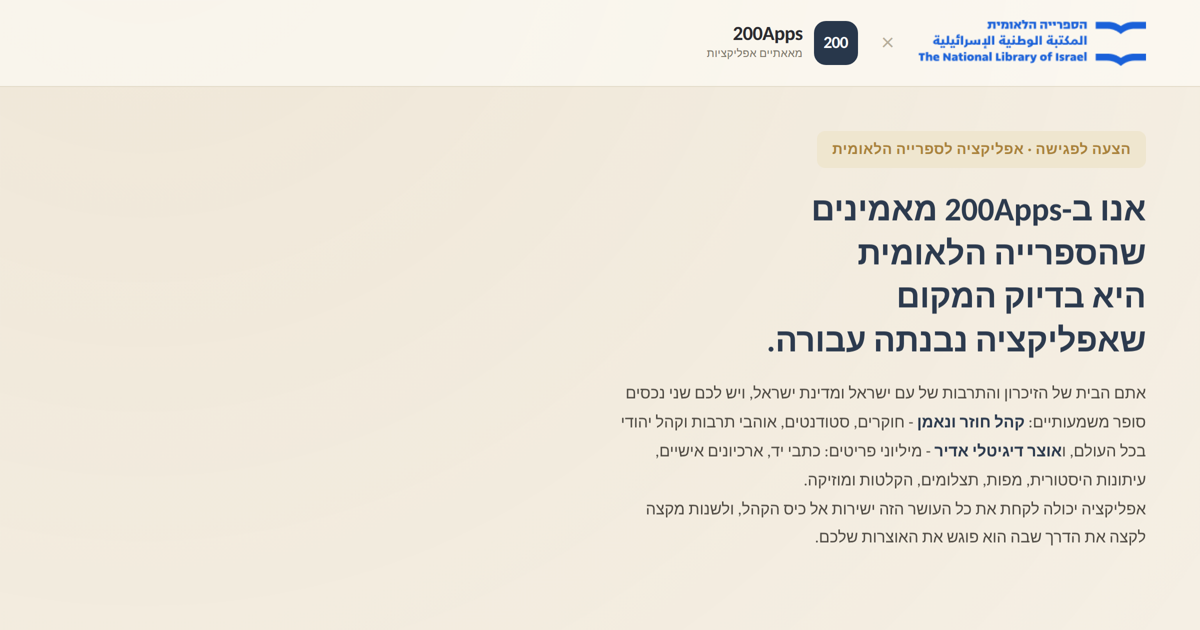
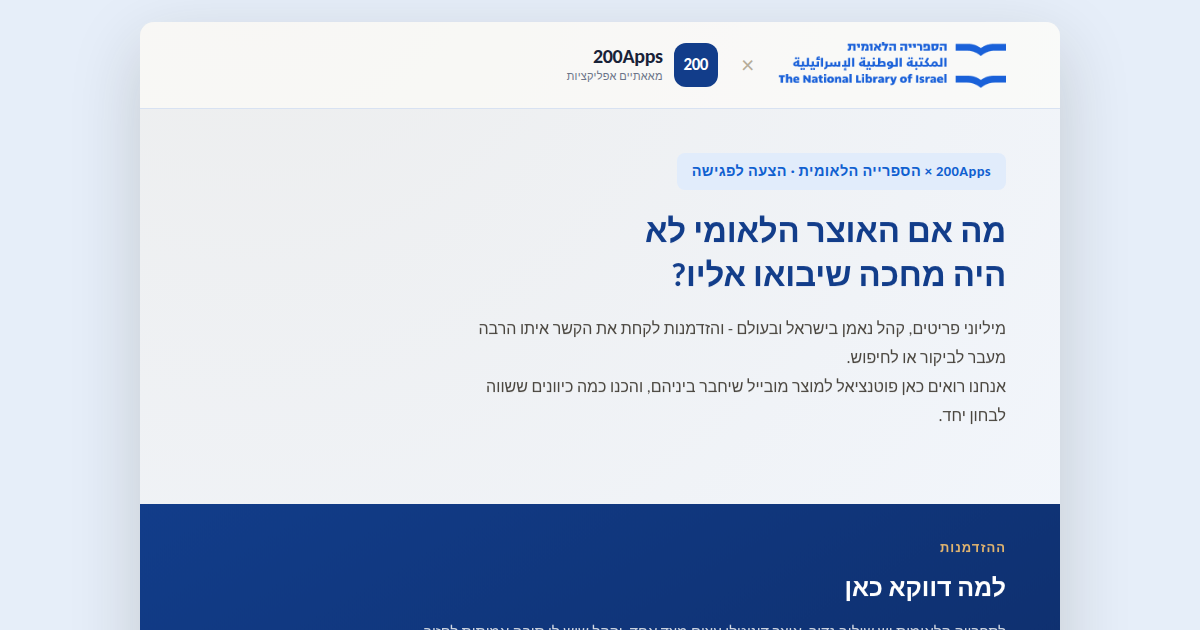
Deploy national-library static page

diff --git a/national-library/index.html b/national-library/index.html
@@ -20,10 +20,10 @@
 <script>document.documentElement.classList.add('js');</script>
 <style>
   :root{
-    --stone:#f5efe4; --stone-2:#ece4d4; --paper:#fffdf8;
-    --ink:#2a2a2f; --muted:#7b7568; --line:#e4dcca;
-    --navy:#28374b; --navy2:#1b2735; --accent:#a9823c; --accent-soft:#efe6cf;
-    --gold2:#cdaa5e;
+    --stone: #f2f6fc; --stone-2: #e6eef9; --paper: #ffffff;
+    --ink: #182238; --muted: #6b7488; --line: #d8e2f2;
+    --navy: #123d8a; --navy2: #0e2d69; --accent: #1060d0; --accent-soft: #e1ecfb;
+    --gold2: #e2b56f;
   }
   *{margin:0;padding:0;box-sizing:border-box;}
   html{scroll-behavior:smooth;}
@@ -140,6 +140,7 @@
   }
 .sticky-cta{position:fixed;bottom:22px;left:22px;z-index:200;display:inline-flex;align-items:center;gap:9px;background:#25D366;color:#fff!important;border:none!important;border-radius:40px;padding:12px 20px;font-weight:700;font-size:14.5px;text-decoration:none;box-shadow:0 10px 30px rgba(0,0,0,.3);transition:transform .2s;}.sticky-cta:hover{transform:translateY(-2px);}.sticky-cta svg{width:20px;height:20px;flex:none;}@media print{.sticky-cta{display:none;}}@media(max-width:640px){.foot{padding-bottom:80px;}.sticky-cta{bottom:16px;left:16px;padding:11px 17px;font-size:13.5px;}}
 .ai-band{background:linear-gradient(150deg,var(--navy),var(--navy2));color:#e9ecf1;border-radius:16px;padding:26px 30px;margin-top:10px;}.ai-band .k{font-size:13px;letter-spacing:1px;color:var(--gold2);font-weight:700;margin-bottom:10px;}.ai-band h3{font-size:22px;font-weight:700;color:#fff;margin-bottom:10px;line-height:1.3;}.ai-band p{font-size:15px;line-height:1.8;color:#d7dce4;max-width:74ch;}.ai-band p b{color:#fff;}.cta-actions{display:flex;gap:12px;flex-wrap:wrap;margin-top:18px;}.cta-btn{display:inline-flex;align-items:center;gap:8px;border-radius:40px;padding:12px 22px;font-weight:700;font-size:15px;text-decoration:none;border:none;transition:transform .2s;}.cta-btn:hover{transform:translateY(-2px);}.cta-btn.mail{background:#fff;color:var(--navy);}.cta-btn.wa{background:#25D366;color:#fff;}.cta-btn svg{width:18px;height:18px;flex:none;}@media(max-width:640px){.cta-actions{flex-direction:column;}.cta-btn{justify-content:center;}.ai-band{padding:20px 20px;}.ai-band h3{font-size:19px;}}
+.band.light{background:var(--paper);color:var(--ink);border:1px solid var(--line);}.band.light .k{color:var(--accent);}.band.light h2{color:var(--navy);}.band.light p{color:var(--ink);}.band.light p b{color:var(--navy);}
 </style>
 </head>
 <body>
@@ -160,52 +161,33 @@
   </div>
 
   <div class="pad">
-    <div class="eyebrow"><span class="he">הצעה לפגישה · אפליקציה לספרייה הלאומית</span><span class="en">A proposal to meet · An app for the National Library of Israel</span></div>
-    <h1 class="serif">
-      <span class="he">אנו ב-200Apps מאמינים שהספרייה הלאומית היא בדיוק המקום שאפליקציה נבנתה עבורה.</span>
-      <span class="en">At 200Apps, we believe the National Library of Israel is exactly the place an app is built for.</span>
-    </h1>
-    <p class="lead">
-      <span class="he">אתם הבית של הזיכרון והתרבות של עם ישראל ומדינת ישראל, ויש לכם שני נכסים סופר משמעותיים: <b>קהל חוזר ונאמן</b> - חוקרים, סטודנטים, אוהבי תרבות וקהל יהודי בכל העולם, ו<b>אוצר דיגיטלי אדיר</b> - מיליוני פריטים: כתבי יד, ארכיונים אישיים, עיתונות היסטורית, מפות, תצלומים, הקלטות ומוזיקה.<br>אפליקציה יכולה לקחת את כל העושר הזה ישירות אל כיס הקהל, ולשנות מקצה לקצה את הדרך שבה הוא פוגש את האוצרות שלכם.</span>
-      <span class="en">You are the home of the memory and culture of the Jewish people and the State of Israel, with two hugely valuable assets: <b>a loyal, returning audience</b> - researchers, students, culture lovers and a Jewish public worldwide, and <b>an enormous digital treasure</b> - millions of items: manuscripts, personal archives, historical press, maps, photographs, recordings and music.<br>An app can bring all of this wealth straight into your audience's pocket, and transform, end to end, the way they meet your treasures.</span>
-    </p>
+    <div class="eyebrow"><span class="he">200Apps × הספרייה הלאומית · הצעה לפגישה</span><span class="en">200Apps × National Library of Israel · A proposal to meet</span></div>
+    <h1 class="serif"><span class="he">מה אם האוצר הלאומי לא היה מחכה שיבואו אליו?</span><span class="en">What if the national treasure didn't wait to be visited?</span></h1>
+    <p class="lead"><span class="he">מיליוני פריטים, קהל נאמן בישראל ובעולם - והזדמנות לקחת את הקשר איתו הרבה מעבר לביקור או לחיפוש.<br>אנחנו רואים כאן פוטנציאל למוצר מובייל שיחבר ביניהם, והכנו כמה כיוונים ששווה לבחון יחד.</span><span class="en">Millions of items, a loyal audience in Israel and worldwide - and an opportunity to take that relationship far beyond a visit or a search.<br>We see potential here for a mobile product that connects them, and we've prepared a few directions worth exploring together.</span></p>
   </div>
 
   <div class="band">
-    <div class="k"><span class="he">התמונה הגדולה</span><span class="en">The big picture</span></div>
-    <h2 class="serif"><span class="he">איך אפליקציה משנה את הדרך שבה הקהל פוגש את אוצרות הספרייה</span><span class="en">How an app changes the way the audience meets the Library's treasures</span></h2>
-    <p>
-      <span class="he">היום האוצרות מחולקים בין כמה מקומות: חלקם בבניין הפיזי החדש, חלקם באתר ובקטלוג, וחלקם באוספים הדיגיטליים, ביוטיוב ובניוזלטר.<br>הקהל פוגש אותם בפיסות, קופץ בין מקורות ולא תמיד מוצא את הפריט או האירוע שהוא מבקש.</span>
-      <span class="en">Today the treasures are divided across several places: some in the new physical building, some on the website and catalog, and some in the digital collections, on YouTube and the newsletter.<br>The audience meets them in pieces, hopping between sources and not always finding the item or event it's looking for.</span>
-    </p>
-    <p>
-      <span class="he"><b>אפליקציה מרכזת את הכל למקום אחד, זמינה תמיד, ומכירה את היוזרים והיוזריות.</b><br>
-      פריט או אירוע רלוונטי מוצג באופן ישיר ומיידי.<br>הרצאה או פרק שהתחלת ממשיכים בדיוק מהמקום שבו עצרת.<br>אוצר שאהבת נשמר על המדף האישי וממתין לחזרה הבאה.</span>
-      <span class="en"><b>An app centralizes everything into one place, always available, and knows its users.</b><br>
-      A relevant item or event appears directly and instantly.<br>A lecture or episode you began resumes right where you left off.<br>A treasure you loved is saved on your personal shelf, waiting for your next visit.</span>
-    </p>
-    <p>
-      <span class="he">במקום קהל שמגיע פעם אחת ונעלם, נוצרת <b>קהילה שנשארת מחוברת לאוצר הלאומי</b> לאורך כל השנה, חוקרת לעומק ובאופן אישי.</span>
-      <span class="en">Instead of an audience that visits once and disappears, <b>a community forms that stays connected to the national treasure</b> all year round, exploring deeper and personally.</span>
-    </p>
-    <div class="chips">
-      <span class="chip"><b class="he">זמינות</b><b class="en">Always on</b> · <span class="he">האוסף כולו במקום אחד, גם לא-מקוון</span><span class="en">the whole collection in one place, even offline</span></span>
-      <span class="chip"><b class="he">גילוי</b><b class="en">Discovery</b> · <span class="he">אוצר ליום, לפי מה שמעניין אותך</span><span class="en">a treasure a day, by what interests you</span></span>
-      <span class="chip"><b class="he">רציפות</b><b class="en">Continuity</b> · <span class="he">ממשיכים, שומרים, חוזרים</span><span class="en">resume, save, return</span></span>
-      <span class="chip"><b class="he">קהילה</b><b class="en">Community</b> · <span class="he">חוקרים, שואלים, לומדים יחד</span><span class="en">research, ask, learn together</span></span>
-    </div>
+    <div class="k"><span class="he">ההזדמנות</span><span class="en">The opportunity</span></div>
+    <h2 class="serif"><span class="he">למה דווקא כאן</span><span class="en">Why here</span></h2>
+    <p><span class="he">לספרייה הלאומית יש שילוב נדיר: אוצר דיגיטלי עצום מצד אחד, וקהל שיש לו סיבה אמיתית לחזור אליו שוב ושוב מצד שני - חוקרים, סטודנטים, אוהבי תרבות וקהילות יהודיות ברחבי העולם.<br>היום הקהל פוגש את הספרייה במגוון נקודות - בבניין, באתר, בקטלוג, באוספים ובתוכן הדיגיטלי. אנחנו רואים הזדמנות להוסיף מעל כל אלה שכבה אחרת של קשר: אישי יותר, רציף יותר, כזה שנמשך גם בין מפגש למפגש.<br>זו נקודת המוצא שלנו לשיחה.</span><span class="en">The National Library has a rare combination: an enormous digital treasure on one side, and an audience with a real reason to return again and again on the other - researchers, students, culture lovers and Jewish communities around the world.<br>Today the audience meets the Library at many points - in the building, on the website, in the catalog, in the collections and in its digital content. We see an opportunity to add, above all of these, another layer of relationship: more personal, more continuous, one that lasts between encounters too.<br>That's our starting point for a conversation.</span></p>
+  </div>
+
+  <div class="band light">
+    <div class="k"><span class="he">למה מובייל</span><span class="en">Why mobile</span></div>
+    <h2 class="serif"><span class="he">למה אפליקציה, ולא עוד אתר</span><span class="en">Why an app, not just another site</span></h2>
+    <p><span class="he">אתר מצוין במיוחד כשמגיעים עם צורך: לחפש, למצוא, לקרוא או להירשם. אפליקציה יכולה להוסיף משהו אחר - המשכיות.<br>תוכן שממשיך מהמקום שבו עצרת, פריט שנשמר למדף שלך, האזנה בדרך ותזכורת כשמתפרסם משהו שבאמת מעניין אותך.<br>מערכת יחסים לאורך זמן, ולא רק ביקור חד-פעמי.</span><span class="en">A website is at its best when you arrive with a need: to search, find, read or sign up. An app can add something else - continuity.<br>Content that resumes where you left off, an item saved to your shelf, listening on the way, and a reminder when something you truly care about is published.<br>A relationship over time, not just a one-time visit.</span></p>
   </div>
 
   <div class="pad">
-    <div class="sec-label"><span class="he">ארבע ליבות לאפליקציה</span><span class="en">Four cores of the app</span></div>
+    <div class="sec-label"><span class="he">שלושה כיוונים ששווה לבחון יחד</span><span class="en">Three directions worth exploring together</span></div>
 
     <div class="pillar">
       <div class="pnum">1</div>
       <div>
-        <h3 class="serif"><span class="he">אוצרות האומה בכיס</span><span class="en">The nation's treasures in your pocket</span></h3>
+        <h3 class="serif"><span class="he">לגלות את האוסף, לא רק לחפש בו</span><span class="en">Discover the collection, not just search it</span></h3>
         <p>
-          <span class="he">היום הגישה למיליוני הפריטים דורשת קטלוג, חיפוש וסבלנות, והרבה מהאוצר נשאר נחלת החוקרים בלבד.<br>אפליקציה עושה שני דברים: <b>מנגישה את האוסף הדיגיטלי המלא</b> (כתבי יד, עיתונות היסטורית, מפות, תצלומים, מוזיקה וארכיונים, זמינים תמיד), <b>והופכת אותו לחוויית גילוי</b>: "אוצר ליום", מסלולים נושאיים, ומדף אישי לשמירת מה שנגע בך.<br>כך האוצר הלאומי הופך ממאגר למחקר לחוויה חיה שכל אדם יכול לגעת בה.</span>
-          <span class="en">Today, reaching millions of items takes a catalog, a search and patience, and much of the treasure stays with researchers alone.<br>An app does two things: it <b>opens up the full digital collection</b> (manuscripts, historical press, maps, photographs, music and archives, always available), <b>and turns it into a discovery experience</b>: a "treasure a day," thematic journeys, and a personal shelf to save what moved you.<br>The national treasure turns from a research database into a living experience anyone can touch.</span>
+          <span class="he">כתבי יד, עיתונות היסטורית, מפות, תצלומים ומוזיקה - לא רק כמאגר שמגיעים אליו כשמחפשים משהו, אלא כחוויית גילוי: אוצר ליום, מסלולים נושאיים ומדף אישי לדברים שרוצים לשמור.</span>
+          <span class="en">Manuscripts, historical press, maps, photographs and music - not just a database you turn to when searching for something, but a discovery experience: a treasure a day, thematic journeys, and a personal shelf for the things you want to keep.</span>
         </p>
       </div>
     </div>
@@ -213,10 +195,10 @@
     <div class="pillar">
       <div class="pnum">2</div>
       <div>
-        <h3 class="serif"><span class="he">חיפוש והתאמה אישית בעידן ה-AI</span><span class="en">Search and personalization in the age of AI</span></h3>
+        <h3 class="serif"><span class="he">האוסף, בדרך שלך</span><span class="en">The collection, your way</span></h3>
         <p>
-          <span class="he">יש מיליוני פריטים, אבל לא הכל מתאים לכל אחד, ולא תמיד קל למצוא.<br>כמו הרגע הראשון בספוטיפיי שבו האפליקציה שואלת מה מעניין אותך, גם כאן <b>כל אחד בוחר את תחומי העניין שלו</b> - היסטוריה, שירה, מוזיקה, גנאלוגיה - ובעזרת AI מקבל <b>המלצות והצעות מסע לפי טעם</b>, וכן <b>חיפוש בשפה חופשית</b> על פני האוסף ("מצא לי מכתבים על...").<br>התראות על תערוכות והרצאות רלוונטיות, ורכישת כרטיס בלחיצה אחת. המעבר מ"קטלוג לכולם" ל<b>"ספרייה אישית"</b>.</span>
-          <span class="en">There are millions of items, but not all fit everyone, and finding is not always easy.<br>Like that first Spotify moment where the app asks what you're into, here too <b>each person picks their interests</b> - history, poetry, music, genealogy - and with AI gets <b>recommendations and journey suggestions by taste</b>, plus <b>natural-language search</b> across the collection ("find me letters about...").<br>Notifications about relevant exhibitions and lectures, and one-tap ticket purchase. From a "catalog for everyone" to <b>a personal library</b>.</span>
+          <span class="he">כל אחד בוחר מה מעניין אותו - היסטוריה, שירה, מוזיקה, גנאלוגיה - ומקבל הצעות מסע לפי טעם, כולל חיפוש בשפה חופשית ("מצא לי מכתבים על...").<br>בבוקר מתגלה פריט חדש. בדרך לעבודה מאזינים לסיפור שמאחוריו. בערב הוא כבר על המדף האישי, מחכה.</span>
+          <span class="en">Each person chooses what interests them - history, poetry, music, genealogy - and gets journeys by taste, including free-language search ("find me letters about...").<br>In the morning a new item appears. On the way to work you hear the story behind it. By evening it's already on your personal shelf, waiting.</span>
         </p>
       </div>
     </div>
@@ -224,31 +206,21 @@
     <div class="pillar">
       <div class="pnum">3</div>
       <div>
-        <h3 class="serif"><span class="he">סטרימינג מהאוסף, בבית שלכם</span><span class="en">Streaming from the collection, inside your own home</span></h3>
+        <h3 class="serif"><span class="he">לתת קול לאוסף</span><span class="en">Give the collection a voice</span></h3>
         <p>
-          <span class="he">היום ההרצאות, הקונצרטים והפודקאסטים הם לינק שמוציא את המשתמש ליוטיוב, וההקלטות ההיסטוריות שמורות באוסף הצליל בלי חוויית האזנה מודרנית.<br>אפליקציה נותנת <b>חוויית סטרימינג אמיתית</b> לאודיו ולווידאו: האזנה וצפייה רציפות, שמירה והאזנה גם לא-מקוון, פלייליסטים, וסיורי תערוכה מוקלטים, <b>הכל בתוך הבית של הספרייה הלאומית, בלי לצאת ממנו</b>.<br>כמו ספוטיפיי או נטפליקס, אבל של האוצר שלכם.</span>
-          <span class="en">Today lectures, concerts and podcasts are a link that sends the user out to YouTube, and the historical recordings sit in the Sound Archive with no modern listening experience.<br>An app delivers <b>a real streaming experience</b> for audio and video: continuous listening and viewing, save and offline playback, playlists, and recorded exhibition tours, <b>all inside the National Library's own home, without ever leaving it</b>.<br>Like Spotify or Netflix, but for your treasure.</span>
+          <span class="he">הרצאות, קונצרטים, פודקאסטים והקלטות היסטוריות, כחוויית האזנה וצפייה רציפה שאפשר להמשיך מהמקום שעצרת, בדרך או בבית.<br>הכל בתוך הבית של הספרייה, בלי לצאת החוצה.</span>
+          <span class="en">Lectures, concerts, podcasts and historical recordings, as a continuous listening and viewing experience you can resume where you left off, on the way or at home.<br>All inside the Library's home, without leaving it.</span>
         </p>
       </div>
     </div>
 
-    <div class="pillar">
-      <div class="pnum">4</div>
-      <div>
-        <h3 class="serif"><span class="he">היכרות אמיתית עם הקהל</span><span class="en">Truly knowing your audience</span></h3>
-        <p>
-          <span class="he">עד היום קשה לדעת מי באמת פוגש את האוצרות, אילו אוספים מדברים לקהל ומה פחות.<br>עם <b>Firebase ו-Analytics</b> מובנים באפליקציה, אתם מכירים את קהל המשתמשים והמשתמשות באופן מדויק: אילו אוספים והרצאות מחזיקים, מי חוזר, מה נשמר ומה ננטש.<br><b>תובנות אמיתיות</b> שמאפשרות להחליט על תערוכות, תוכן ופעילות מתוך נתונים, לא מתוך תחושה.</span>
-          <span class="en">Until now it's hard to know who really meets the treasures, which collections speak to the audience and which less.<br>With <b>Firebase and Analytics</b> built into the app, you know your audience precisely: which collections and lectures hold, who returns, what's saved and what's abandoned.<br><b>Real insight</b> that lets you shape exhibitions, content and programming from data, not from a hunch.</span>
-        </p>
-      </div>
-    </div>
+  </div>
 
-    <div class="ai-band"><div class="k"><span class="he">בעידן ה-AI</span><span class="en">In the age of AI</span></div><h3 class="serif"><span class="he">מוצר שה-AI טבוע בו, מהיום הראשון</span><span class="en">A product with AI built in, from day one</span></h3><p><span class="he">אנחנו ב-200Apps בונים מוצרים שה-AI חלק מהם: <b>חיפוש חכם בשפה חופשית</b> על האוסף, <b>המלצות אישיות</b> לפי טעם, והנגשה חכמה של תוכן לכל אדם. וגם התהליך שלנו עצמו AI-native מקצה לקצה, כך שהבנייה היום <b>מהירה, עשירה ומדויקת</b> יותר מאי פעם.</span><span class="en">At 200Apps we build products with AI woven in: <b>smart natural-language search</b> across the collection, <b>personal recommendations</b> by taste, and smart content accessibility for everyone. And our process itself is AI-native end to end, so building today is <b>faster, richer and more precise</b> than ever.</span></p></div>
-    <div class="who">
+  <div class="who">
       <div class="k"><span class="he">מי אנחנו</span><span class="en">Who we are</span></div>
       <p>
-        <span class="he">200Apps (מאאתיים אפליקציות) <b>בונה מוצרים טכנולוגיים ומלווה חברות, ארגונים ועסקים כבר 12 שנה</b>.<br>נוסדנו ב-2014 ובנינו מעל 300 מוצרים במודל מקצה-לקצה: מחקר, אפיון ממשק, עיצוב, פיתוח, QA ותחזוקה, עם ניסיון עמוק בתוכן, חינוך וקהילות דיגיטליות.<br>אנחנו ב-200Apps שותפים יחד אתכם ביצירת מוצר טכנולוגי שמתרגם רעיון למערכת חיה. מוזמנים להתרשם מהעבודות שלנו באתר: <a href="https://www.200apps.com" target="_blank" rel="noopener">200apps.com</a></span>
-        <span class="en">200Apps <b>builds technology products and partners with companies, organizations and businesses, for 12 years</b>.<br>Founded in 2014, we've built 300+ products end-to-end: research, UX, design, development, QA and maintenance, with deep experience in content, education and digital communities.<br>At 200Apps we partner with you, together, in creating a technology product that turns an idea into a living system. See our work at: <a href="https://www.200apps.com" target="_blank" rel="noopener">200apps.com</a></span>
+        <span class="he">200Apps (מאאתיים אפליקציות) <b>בונה מוצרים דיגיטליים כבר 12 שנה, מעל 300 מוצרים</b>, במודל מקצה-לקצה: מחקר, עיצוב, פיתוח ותחזוקה, עם ניסיון עמוק בתוכן, חינוך וקהילות.<br>אנחנו לא מגיעים עם תשובה מוכנה. אנחנו מגיעים עם ניסיון, קריאה ראשונית של ההזדמנות, וכמה השערות שכדאי לבדוק יחד. <a href="https://www.200apps.com" target="_blank" rel="noopener">200apps.com</a></span>
+        <span class="en">200Apps <b>has built digital products for 12 years, 300+ of them</b>, end-to-end: research, design, development and maintenance, with deep experience in content, education and communities.<br>We don't arrive with a ready answer. We arrive with experience, an early read of the opportunity, and a few hypotheses worth testing together. <a href="https://www.200apps.com" target="_blank" rel="noopener">200apps.com</a></span>
       </p>
       <div class="clients">
         <div class="ttl"><span class="he">מותגים שכבר עובדים איתנו</span><span class="en">Brands already working with us</span></div>
@@ -261,7 +233,7 @@
     <div class="cta">
       <div>
         <div class="t serif"><span class="he">בואו ניפגש לשיחה קצרה.</span><span class="en">Let's meet for a short conversation.</span></div>
-        <div class="s"><span class="he">נשמח ממש להיפגש, להכיר ולחשוב יחד על בניית מוצר מובייל ייחודי שיתאים לצרכים של הספרייה הלאומית.</span><span class="en">We'd truly love to meet, get to know you, and think together about building a unique mobile product tailored to the National Library's needs.</span></div><div class="cta-actions"><a class="cta-btn mail" href="mailto:hemi@200apps.co?subject=%D7%94%D7%A6%D7%A2%D7%94%20-%20%D7%90%D7%A4%D7%9C%D7%99%D7%A7%D7%A6%D7%99%D7%94%20%D7%9C%D7%A1%D7%A4%D7%A8%D7%99%D7%99%D7%94%20%D7%94%D7%9C%D7%90%D7%95%D7%9E%D7%99%D7%AA"><svg viewBox="0 0 24 24" width="18" height="18" fill="none" stroke="currentColor" stroke-width="2" aria-hidden="true"><rect x="2" y="4" width="20" height="16" rx="2"/><path d="m2 6 10 7L22 6"/></svg><span class="he">שליחת מייל</span><span class="en">Email us</span></a><a class="cta-btn wa" href="https://wa.me/972553192012?text=%D7%94%D7%99%D7%99%2C%20%D7%90%D7%A9%D7%9E%D7%97%20%D7%9C%D7%93%D7%91%D7%A8%20%D7%A2%D7%9C%20%D7%94%D7%A1%D7%A4%D7%A8%D7%99%D7%99%D7%94%20%D7%94%D7%9C%D7%90%D7%95%D7%9E%D7%99%D7%AA." target="_blank" rel="noopener"><svg viewBox="0 0 32 32" width="18" height="18" fill="currentColor" aria-hidden="true"><path d="M16 .4C7.4.4.5 7.3.5 15.9c0 2.8.7 5.4 2 7.7L.4 31.6l8.2-2.1c2.2 1.2 4.8 1.9 7.4 1.9 8.6 0 15.5-6.9 15.5-15.5S24.6.4 16 .4zm0 28.3c-2.4 0-4.6-.6-6.5-1.8l-.5-.3-4.9 1.3 1.3-4.8-.3-.5C3.6 20.8 3 18.4 3 15.9 3 8.7 8.8 2.9 16 2.9S29 8.7 29 15.9 23.2 28.7 16 28.7zm7.1-9.7c-.4-.2-2.3-1.1-2.6-1.3-.4-.1-.6-.2-.9.2-.3.4-1 1.3-1.2 1.5-.2.2-.4.3-.8.1-.4-.2-1.6-.6-3.1-1.9-1.1-1-1.9-2.3-2.2-2.7-.2-.4 0-.6.2-.8.2-.2.4-.4.5-.7.2-.2.2-.4.4-.6.1-.3 0-.5 0-.7-.1-.2-.9-2.1-1.2-2.9-.3-.8-.6-.7-.9-.7h-.7c-.2 0-.6.1-1 .5-.3.4-1.3 1.3-1.3 3.1 0 1.8 1.3 3.6 1.5 3.8.2.2 2.6 4 6.3 5.6.9.4 1.6.6 2.1.8.9.3 1.7.2 2.3.1.7-.1 2.3-.9 2.6-1.8.3-.9.3-1.7.2-1.8z"/></svg><span class="he">בואו נדבר על הספרייה הלאומית</span><span class="en">Let's talk about the National Library</span></a></div>
+        <div class="s"><span class="he">הכיוונים כאן הם נקודת פתיחה לשיחה.<br>בואו ניפגש, נכיר, ונראה אם יש פה משהו ששווה לבנות יחד.</span><span class="en">The directions here are a starting point for a conversation.<br>Let's meet, get to know each other, and see if there's something here worth building together.</span></div><div class="cta-actions"><a class="cta-btn mail" href="mailto:hemi@200apps.co?subject=%D7%94%D7%A6%D7%A2%D7%94%20-%20%D7%90%D7%A4%D7%9C%D7%99%D7%A7%D7%A6%D7%99%D7%94%20%D7%9C%D7%A1%D7%A4%D7%A8%D7%99%D7%99%D7%94%20%D7%94%D7%9C%D7%90%D7%95%D7%9E%D7%99%D7%AA"><svg viewBox="0 0 24 24" width="18" height="18" fill="none" stroke="currentColor" stroke-width="2" aria-hidden="true"><rect x="2" y="4" width="20" height="16" rx="2"/><path d="m2 6 10 7L22 6"/></svg><span class="he">שליחת מייל</span><span class="en">Email us</span></a><a class="cta-btn wa" href="https://wa.me/972553192012?text=%D7%94%D7%99%D7%99%2C%20%D7%90%D7%A9%D7%9E%D7%97%20%D7%9C%D7%93%D7%91%D7%A8%20%D7%A2%D7%9C%20%D7%94%D7%A1%D7%A4%D7%A8%D7%99%D7%99%D7%94%20%D7%94%D7%9C%D7%90%D7%95%D7%9E%D7%99%D7%AA." target="_blank" rel="noopener"><svg viewBox="0 0 32 32" width="18" height="18" fill="currentColor" aria-hidden="true"><path d="M16 .4C7.4.4.5 7.3.5 15.9c0 2.8.7 5.4 2 7.7L.4 31.6l8.2-2.1c2.2 1.2 4.8 1.9 7.4 1.9 8.6 0 15.5-6.9 15.5-15.5S24.6.4 16 .4zm0 28.3c-2.4 0-4.6-.6-6.5-1.8l-.5-.3-4.9 1.3 1.3-4.8-.3-.5C3.6 20.8 3 18.4 3 15.9 3 8.7 8.8 2.9 16 2.9S29 8.7 29 15.9 23.2 28.7 16 28.7zm7.1-9.7c-.4-.2-2.3-1.1-2.6-1.3-.4-.1-.6-.2-.9.2-.3.4-1 1.3-1.2 1.5-.2.2-.4.3-.8.1-.4-.2-1.6-.6-3.1-1.9-1.1-1-1.9-2.3-2.2-2.7-.2-.4 0-.6.2-.8.2-.2.4-.4.5-.7.2-.2.2-.4.4-.6.1-.3 0-.5 0-.7-.1-.2-.9-2.1-1.2-2.9-.3-.8-.6-.7-.9-.7h-.7c-.2 0-.6.1-1 .5-.3.4-1.3 1.3-1.3 3.1 0 1.8 1.3 3.6 1.5 3.8.2.2 2.6 4 6.3 5.6.9.4 1.6.6 2.1.8.9.3 1.7.2 2.3.1.7-.1 2.3-.9 2.6-1.8.3-.9.3-1.7.2-1.8z"/></svg><span class="he">בואו נדבר על הספרייה הלאומית</span><span class="en">Let's talk about the National Library</span></a></div>
       </div>
       <div class="sig">
         <div class="nm">חמי בן לביא · Hemi Ben-Lavi</div>
@@ -274,7 +246,7 @@
 
   <div class="foot">
     <span><a href="https://www.200apps.com" target="_blank" rel="noopener" style="border:none;color:var(--muted);">200apps.com</a></span>
-    <span><span class="he">הוכן במיוחד עבור הספרייה הלאומית · יולי 2026</span><span class="en">Prepared for the National Library of Israel · July 2026</span></span>
+    <span><span class="he">הוכן במיוחד עבור הספרייה הלאומית · אוגוסט 2026</span><span class="en">Prepared for the National Library of Israel · August 2026</span></span>
   </div>
 
 </div>
